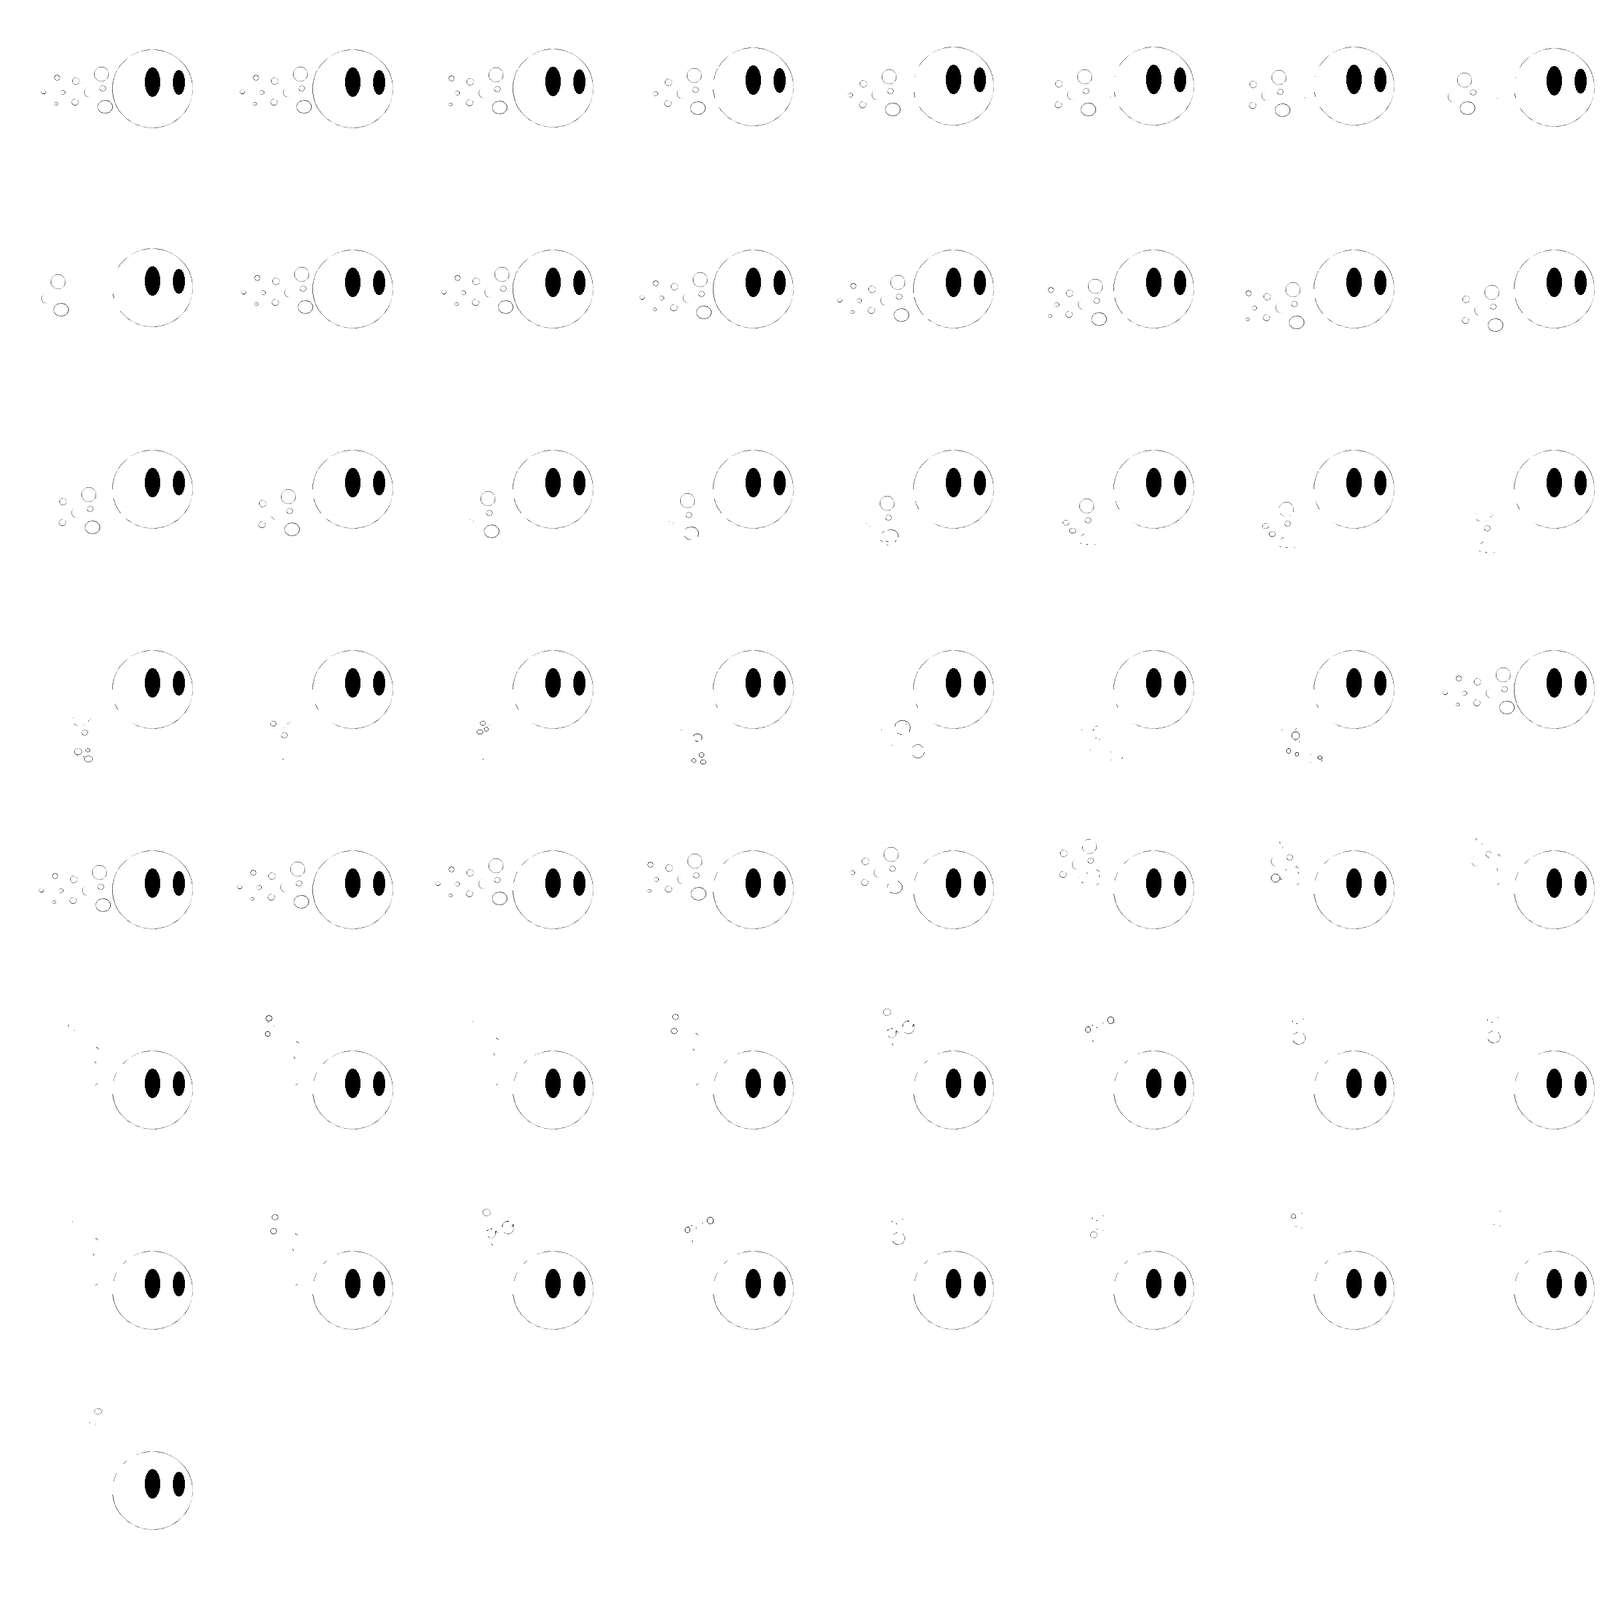
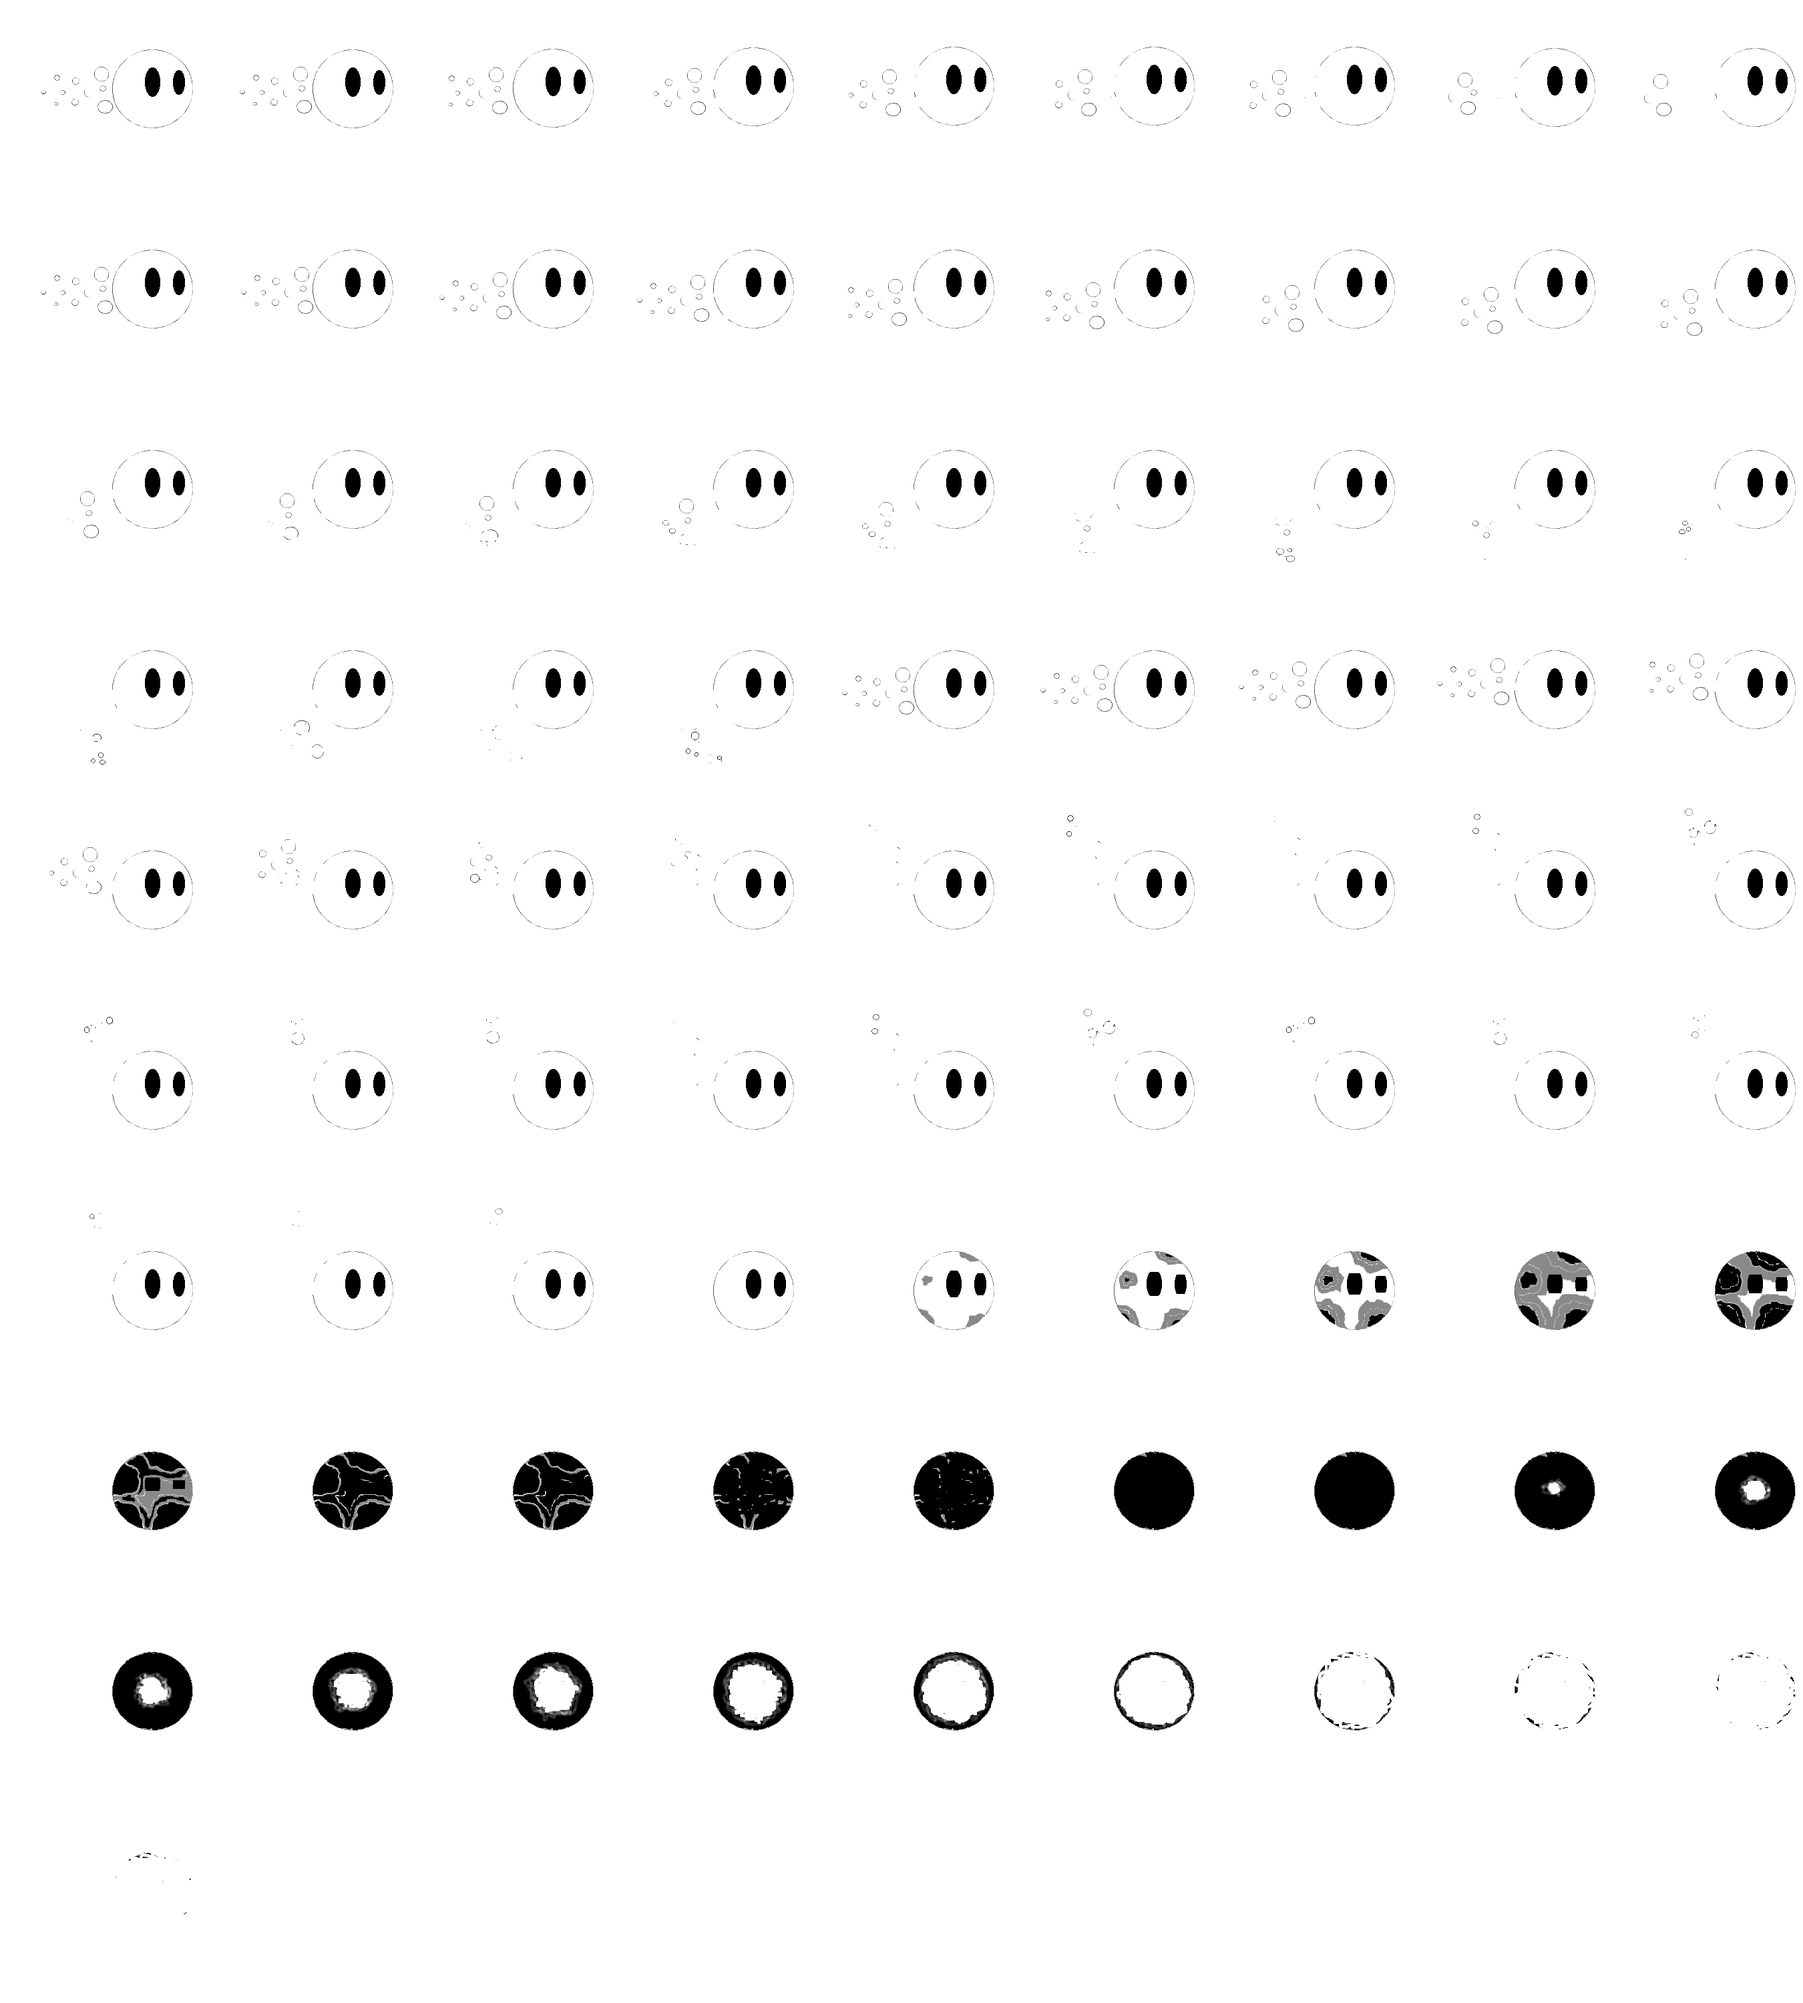
Sprite: added collided sprite

diff --git a/app/Components/Game/src/components/Player.tsx b/app/Components/Game/src/components/Player.tsx
@@ -72,7 +72,7 @@ export default class Player extends React.Component<Circle.Props & Props, State>
     this.spriteRef = spriteRef!;
     this.playSprite("idle", 12, true);
   }
-  // optional animation
+  // optional animation, not really used for now
   fly = (spriteRef: SpriteSheet | null) => {
     this.newSprite(spriteRef);
     this.playSprite(
@@ -127,6 +127,10 @@ export default class Player extends React.Component<Circle.Props & Props, State>
     );
   }
 
+  collided = (spriteRef: SpriteSheet | null) => {
+    this.spriteRef = spriteRef!;
+    this.playSprite("collided", 12, false);
+  }
 
   render() {
     const
@@ -137,8 +141,8 @@ export default class Player extends React.Component<Circle.Props & Props, State>
         <SpriteSheet
           ref={this.state.startSprite} // if went error, i edited SpriteSheet index.d.ts
           source={require('../../assets/bally.png')}
-          columns={8}
-          rows={8}
+          columns={9}
+          rows={10}
           width={this.props.size * 2.7}
           viewStyle={{
             left: -left,
@@ -167,6 +171,12 @@ export default class Player extends React.Component<Circle.Props & Props, State>
               51, 52, 53, 54, 55, 56
             ],
             fallIdle: [50, 51, 52, 53, 54, 55, 56],
+
+            collided: [
+              57, 58, 59, 60, 
+              61, 62, 63, 64, 65, 66, 67, 68, 69, 70,
+              71, 72, 73, 74, 75, 76, 77, 78, 79, 80
+            ]
           }} />
       </Circle.default>
     )

diff --git a/app/Components/Game/src/utils/world/Physics.ts b/app/Components/Game/src/utils/world/Physics.ts
@@ -188,6 +188,10 @@ export namespace Physics {
             let timeOut: any;
             let callBack: any = () => {
               game.engine ? game.engine.stop() : null;
+              (function collidedSprite() {
+                game.playerRef.stopCurrentAnim();
+                game.playerRef.setState({ startSprite: game.playerRef.collided });
+              })()
               clearTimeout(timeOut);
               timeOut = null; callBack = null;
             }
